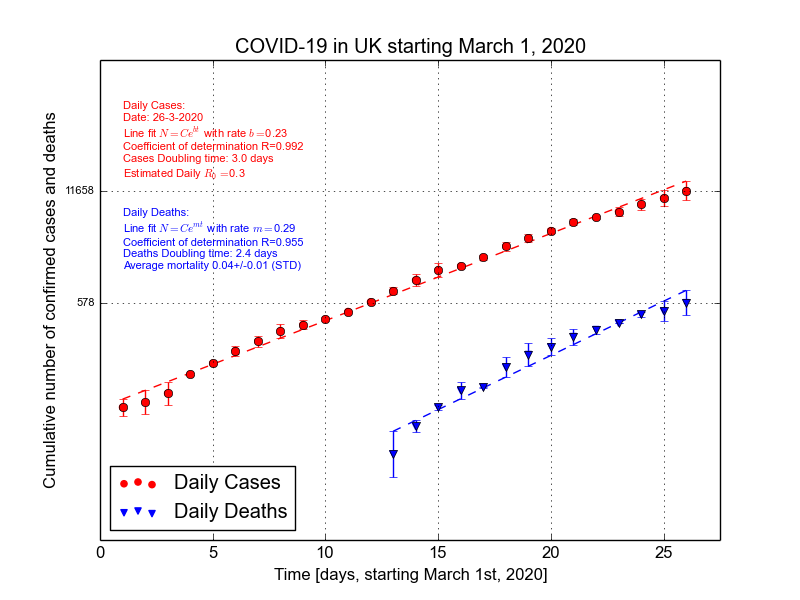
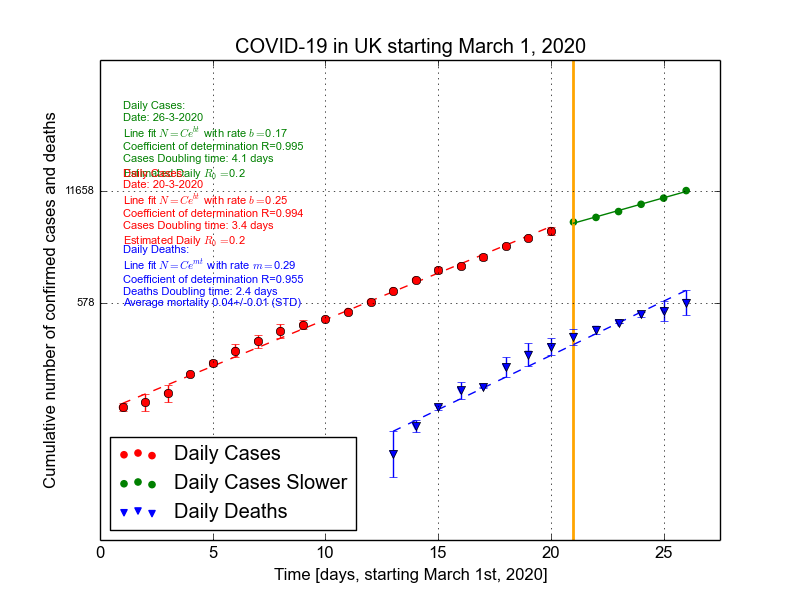
adjusted uk for slowdown

diff --git a/cov_lin_models_refactored.py b/cov_lin_models_refactored.py
@@ -42,7 +42,8 @@ SLOWDOWN = {"Belgium": 13,
             "Norway": 14,
             "Poland": 16,
             "Slovakia": 21,
-            "Sweden": 13}
+            "Sweden": 13,
+            "UK": 21}
 
 # countries that need their data to be summed;
 # same for US states
@@ -280,6 +281,7 @@ def plot_countries(datasets, month, country, download):
         x_cases,
         y_cases)
     if d_time_s and R0_s:
+        # compute MEAN doublind time for the combined fast&slow
         d_time = np.mean(np.append(d_time, d_time_s))
         R0 = np.mean(np.append(R0, R0_s))
 
@@ -500,9 +502,9 @@ def make_simulations_plot(variable_pack, country):
         # if slowdown
         if country in SLOWDOWN:
             plt.axvline(SLOWDOWN[country], linewidth=2, color='orange')
-            plt.scatter(x_slow, y_slow, color='g',
+            plt.scatter(x_slow, y_slow, color='darkolivegreen', marker='s',
                         label="Daily Cases Slower")
-            plt.plot(x_slow, poly_x_s, '-g')
+            plt.plot(x_slow, poly_x_s, linestyle='-', color='darkolivegreen')
         plt.scatter((x0, x0 + 10.), (np.log(y0), np.log(y)),
                     color='k', label="Worst Cases Proj")
         plt.scatter((x0, x0 + 10.), (np.log(y0), np.log(y_min)),
@@ -535,7 +537,7 @@ def make_simulations_plot(variable_pack, country):
         plt.grid()
         plt.annotate("Pubs", xy=(20.5, 0.9), color='red')
         plt.annotate("shut", xy=(20.5, 0.6), color='red')
-        plt.annotate("Lockdown", xy=(23.5, 3.3), color='red')
+        plt.annotate("Lockdown", xy=(23.5, 3.6), color='red')
         plt.annotate("London:", xy=(20.5, np.log(y0) - 0.25),
                      color='red', fontsize=8)
         plt.annotate("2000", xy=(20.5, np.log(y0) - 0.5),
@@ -543,8 +545,9 @@ def make_simulations_plot(variable_pack, country):
         plt.annotate("London: 2872", xy=(23.5, np.log(y0)),
                      color='red', fontsize=8)
         plt.legend(loc="lower right", fontsize=9)
-        plt.text(1., y_data[-1] + 0.3, plot_text, fontsize=8, color='r')
-        plt.text(1., y_data[-1] - 2.1, plot_text_d, fontsize=8, color='b')
+        plt.text(1., y_slow[-1] + 0.3, plot_text_s, fontsize=8, color='darkolivegreen')
+        plt.text(1., y_data[-1] - 0.7, plot_text, fontsize=8, color='r')
+        plt.text(1., y_data[-1] - 2.4, plot_text_d, fontsize=8, color='b')
         plt.axvline(20, color="red")
         plt.axvline(23, color="red")
         plt.suptitle("COVID-19 in {} starting March 1, 2020 spun up 10 days\n".format(country) + \
